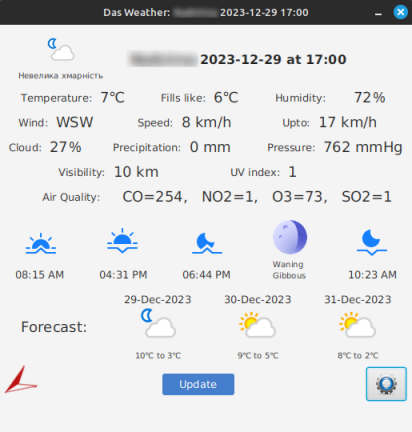
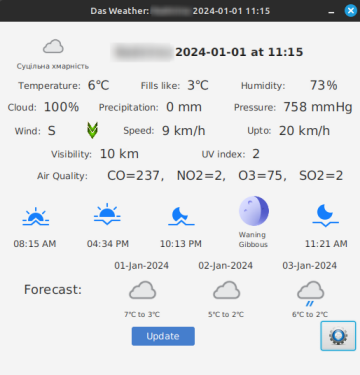
Improved wind direction arrow and moved it into wind direction data string. Updated README.md

diff --git a/README.md b/README.md
@@ -19,15 +19,17 @@
   - Provide **app.weather.location** parameter - name of city weather you want to get for.
 - Launch **start-prod.sh** (use Java 8)
 
-### 📜 Main Window items
+### 📜 Main Window
 ![Screenshot](images/WeatherWindow_v2.png)
 - Info Items:
   - 1st: **_Condition_** icon and it's name, **_Your Place Name_** and **_Last Updated_** - time when the weather have been updated  
-  - 2nd: 🔥 **_Temperature_** ℃ (**_Fills Like_** ℃) 🌫 **_Humidity_ %** 
-  - 3rd: 💨 **Wind Direction** **Wind Speed** (**Wind Gust**) km/h
-  - 4th: ☁ **_Cloud_** % ☔ **Precipitation** mm 🔽 **_Pressure_** nnHg
+  - 2nd: 🔥 **_Temperature_** ℃ **_Fills Like_** ℃ 🌫 **_Humidity_ %** 
+  - 3rd: **Cloud** % **Precipitation** mm **Pressure** mmHg
+  - 4th: 💨 **Wind Direction** (with arrow) **Wind Speed** km/h **Wind Gust** km/h
+  - 5th: **Visibility** km **Ultra Violet Index** (with tooltip)
+  - 6th: **Air Quality:**
 - Button:
-  - **Update** - to update weather
+  - **Update** - to update weather data
   - **Config** - to change Application's config
 
 ###### _Made by -=:dAs:=-_
